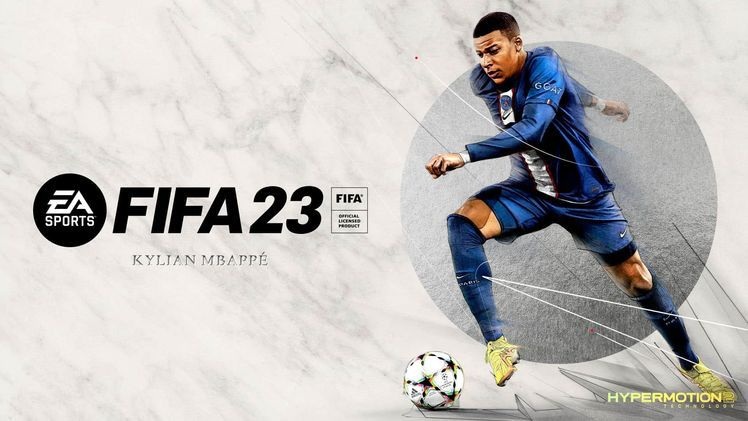
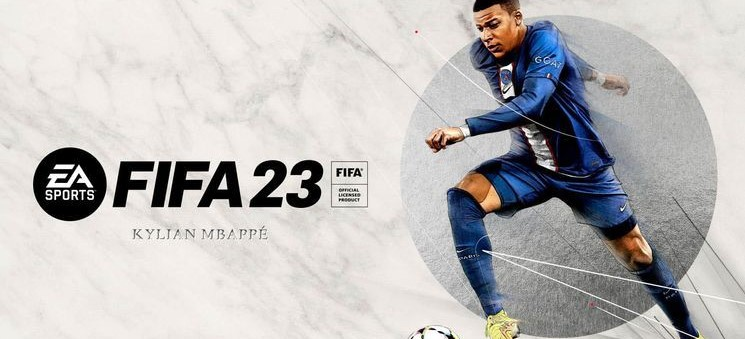
img

diff --git a/style.css b/style.css
@@ -52,7 +52,7 @@ nav{
 
 .slide{
     margin: 5rem;
-    width: 80rem;
+    width: 70rem;
     border-radius: 20px;
     size: 80%;
     border: black 5px;
@@ -61,10 +61,14 @@ nav{
 }
 
 h5{
-
     font-size: 3rem;
 }
 
+.carousel-item img{
+    border-radius: 50px;
+    height: 20rem;
+    object-fit: cover;
+}
 .nav-item{
     margin-left: 2rem;
     text-align: center;
